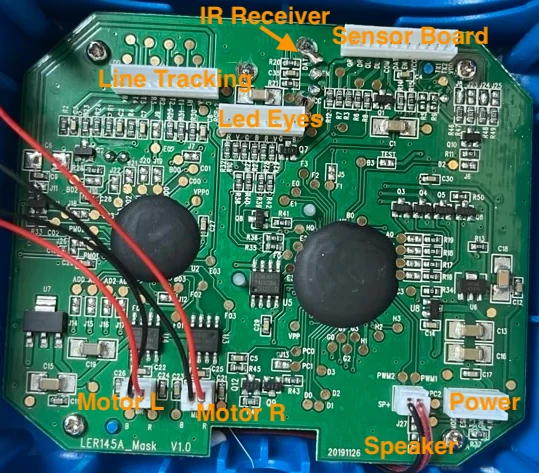
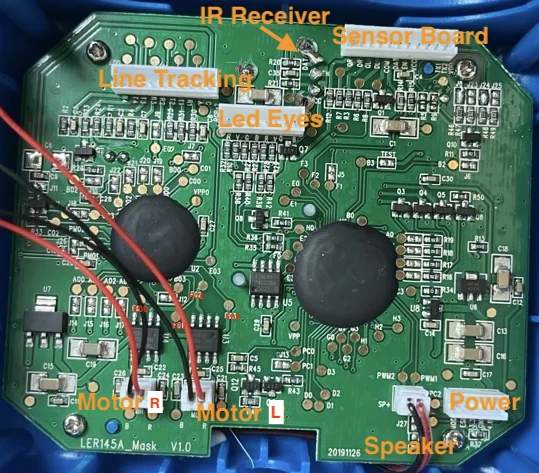
Update Motor Control sheet.

diff --git a/README.md b/README.md
@@ -38,7 +38,18 @@ In this project, I'll use toy robot of my daugther,[Botley 2.0](https://amzn.eu/
         main board
 
         <img src="images/botley_main_board.webp" width="480">
-    
+
+        The two motor could be controlled by the
+        [TRA9118A Motor Driver](http://www.chipsourcetek.com/DataSheet/TRA9118A.pdf)
+
+        |F00| F01| F02 | F03| Mode|
+        |---|---|---|---|---|---|
+        | L |  L |  L  |  L |stand|
+        | H |  L |  H  |  L |forward|
+        | L |  H |  L  |  H |backward|
+        | H |  L |  L  |  H |turn left|
+        | L |  H |  H  |  L |turn right|
+
     
         sensor board for Motor Encoder & obstacle detection
 
